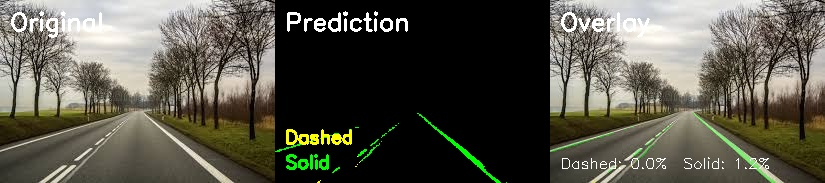
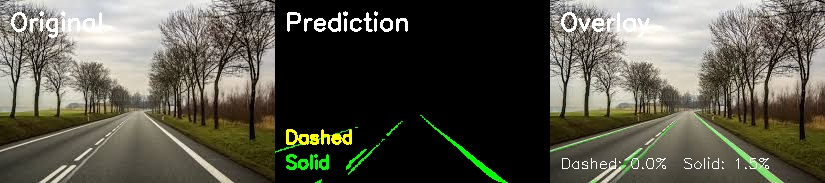
res net backbone added

diff --git a/src/model/encoder.py b/src/model/encoder.py
@@ -24,81 +24,71 @@ from .attention import MultiHeadSelfAttention
 from .transformer_block import TransformerBlock
 
 
-class ConvBlock(nn.Module):
-    """Two convolution layers with BatchNorm and GELU."""
-
-    def __init__(self, in_ch: int, out_ch: int, stride: int = 1):
-        super().__init__()
-        self.conv = nn.Sequential(
-            nn.Conv2d(in_ch, out_ch, 3, stride=stride, padding=1, bias=False),
-            nn.BatchNorm2d(out_ch),
-            nn.GELU(),
-            nn.Conv2d(out_ch, out_ch, 3, stride=1, padding=1, bias=False),
-            nn.BatchNorm2d(out_ch),
-            nn.GELU(),
-        )
-        # Residual connection
-        self.shortcut = nn.Sequential(
-            nn.Conv2d(in_ch, out_ch, 1, stride=stride, bias=False),
-            nn.BatchNorm2d(out_ch),
-        ) if in_ch != out_ch or stride != 1 else nn.Identity()
-
-    def forward(self, x: torch.Tensor) -> torch.Tensor:
-        return self.conv(x) + self.shortcut(x)
-
+from torchvision.models import resnet50, ResNet50_Weights
 
 class MultiScaleEncoder(nn.Module):
     """
-    Multi-Scale Encoder with CNN backbone + Transformer top.
+    Multi-Scale Encoder with pretrained ResNet-50 backbone + Transformer top.
 
     Produces feature maps at 3 scales (1/4, 1/8, 1/16) for the
     deformable attention decoder to attend to.
 
     Args:
         in_channels:       Number of input image channels (3 for RGB).
-        backbone_channels: Channel dimensions for each CNN stage.
+        backbone_channels: Channel dimensions for each CNN stage (256, 512, 1024 for ResNet-50).
         embed_dim:         Transformer embedding dimension (applied at 1/16 scale).
         num_heads:         Number of attention heads for transformer blocks.
         transformer_depth: Number of transformer blocks at the deepest scale.
         expansion_ratio:   FFN expansion ratio in transformer blocks.
         dropout:           Dropout rate.
         drop_path_rate:    Maximum stochastic depth rate.
+        freeze_backbone:   If True, freezes the ResNet backbone weights.
     """
 
     def __init__(
         self,
         in_channels: int = 3,
-        backbone_channels: tuple[int, ...] = (64, 128, 256),
+        backbone_channels: tuple[int, ...] = (256, 512, 1024),
         embed_dim: int = 256,
         num_heads: int = 8,
         transformer_depth: int = 6,
         expansion_ratio: int = 4,
         dropout: float = 0.1,
         drop_path_rate: float = 0.1,
+        freeze_backbone: bool = False,
     ):
         super().__init__()
 
         self.embed_dim = embed_dim
         self.num_feature_levels = len(backbone_channels)
 
-        # --- CNN Backbone Stages ---
-        # Stage 1: stride-4 (two stride-2 convs) → 1/4 resolution
+        # --- Base ResNet-50 Backbone ---
+        resnet = resnet50(weights=ResNet50_Weights.DEFAULT)
+        if in_channels != 3:
+            resnet.conv1 = nn.Conv2d(in_channels, 64, kernel_size=7, stride=2, padding=3, bias=False)
+
+        # Stage 1: stride-4 → 1/4 resolution (256 channels)
         self.stage1 = nn.Sequential(
-            ConvBlock(in_channels, backbone_channels[0], stride=2),
-            ConvBlock(backbone_channels[0], backbone_channels[0], stride=2),
+            resnet.conv1,
+            resnet.bn1,
+            resnet.relu,
+            resnet.maxpool, # maxpool causes total stride of 4
+            resnet.layer1
         )
 
-        # Stage 2: stride-2 → 1/8 resolution
-        self.stage2 = nn.Sequential(
-            ConvBlock(backbone_channels[0], backbone_channels[1], stride=2),
-            ConvBlock(backbone_channels[1], backbone_channels[1], stride=1),
-        )
+        # Stage 2: stride-2 → 1/8 resolution (512 channels)
+        self.stage2 = resnet.layer2
 
-        # Stage 3: stride-2 → 1/16 resolution
-        self.stage3 = nn.Sequential(
-            ConvBlock(backbone_channels[1], backbone_channels[2], stride=2),
-            ConvBlock(backbone_channels[2], backbone_channels[2], stride=1),
-        )
+        # Stage 3: stride-2 → 1/16 resolution (1024 channels)
+        self.stage3 = resnet.layer3
+
+        if freeze_backbone:
+            for param in self.stage1.parameters():
+                param.requires_grad = False
+            for param in self.stage2.parameters():
+                param.requires_grad = False
+            for param in self.stage3.parameters():
+                param.requires_grad = False
 
         # --- Feature Projection ---
         # Project each backbone stage output to embed_dim for the decoder
@@ -140,9 +130,9 @@ class MultiScaleEncoder(nn.Module):
                 - List of spatial shapes per level, each (H_l, W_l).
         """
         # CNN backbone stages
-        f1 = self.stage1(x)   # (B, C1, H/4,  W/4)
-        f2 = self.stage2(f1)  # (B, C2, H/8,  W/8)
-        f3 = self.stage3(f2)  # (B, C3, H/16, W/16)
+        f1 = self.stage1(x)   # (B, 256,  H/4,  W/4)
+        f2 = self.stage2(f1)  # (B, 512,  H/8,  W/8)
+        f3 = self.stage3(f2)  # (B, 1024, H/16, W/16)
 
         backbone_features = [f1, f2, f3]
 
@@ -170,3 +160,4 @@ class MultiScaleEncoder(nn.Module):
                 feature_list.append(tokens)
 
         return feature_list, spatial_shapes
+

diff --git a/src/model/vit_lane_seg.py b/src/model/vit_lane_seg.py
@@ -51,7 +51,7 @@ class ViTLaneSeg(nn.Module):
         self,
         img_size: tuple[int, int] = (360, 640),
         in_channels: int = 3,
-        backbone_channels: tuple[int, ...] = (64, 128, 256),
+        backbone_channels: tuple[int, ...] = (256, 512, 1024),
         embed_dim: int = 256,
         num_heads: int = 8,
         num_classes: int = 3,
@@ -63,6 +63,7 @@ class ViTLaneSeg(nn.Module):
         expansion_ratio: int = 4,
         dropout: float = 0.1,
         drop_path_rate: float = 0.1,
+        freeze_backbone: bool = False,
     ):
         super().__init__()
 
@@ -79,6 +80,7 @@ class ViTLaneSeg(nn.Module):
             expansion_ratio=expansion_ratio,
             dropout=dropout,
             drop_path_rate=drop_path_rate,
+            freeze_backbone=freeze_backbone,
         )
 
         # Transformer Segmentation Decoder
@@ -152,7 +154,7 @@ class ViTLaneSeg(nn.Module):
         return cls(
             img_size=tuple(model_cfg.get("img_size", [360, 640])),
             in_channels=model_cfg.get("in_channels", 3),
-            backbone_channels=tuple(model_cfg.get("backbone_channels", [64, 128, 256])),
+            backbone_channels=tuple(model_cfg.get("backbone_channels", [256, 512, 1024])),
             embed_dim=model_cfg.get("embed_dim", 256),
             num_heads=model_cfg.get("num_heads", 8),
             num_classes=model_cfg.get("num_classes", 3),
@@ -164,4 +166,5 @@ class ViTLaneSeg(nn.Module):
             expansion_ratio=model_cfg.get("expansion_ratio", 4),
             dropout=model_cfg.get("dropout", 0.1),
             drop_path_rate=model_cfg.get("drop_path_rate", 0.1),
+            freeze_backbone=model_cfg.get("freeze_backbone", False),
         )

diff --git a/src/train.py b/src/train.py
@@ -361,8 +361,8 @@ def main():
     print(f"[Train] TensorBoard logs: {log_dir}")
 
     # Checkpoint directory
-    ckpt_dir = Path("checkpoints")
-    ckpt_dir.mkdir(exist_ok=True)
+    ckpt_dir = Path(config["logging"].get("ckpt_dir", "checkpoints"))
+    ckpt_dir.mkdir(parents=True, exist_ok=True)
 
     # =============================
     # Training loop

diff --git a/test_model.py b/test_model.py
@@ -7,7 +7,7 @@ from src.model import ViTLaneSeg
 print("Creating LDTR-inspired model...")
 model = ViTLaneSeg(
     img_size=(360, 640),
-    backbone_channels=(64, 128, 256),
+    backbone_channels=(256, 512, 1024),
     embed_dim=256,
     num_heads=8,
     num_classes=3,
